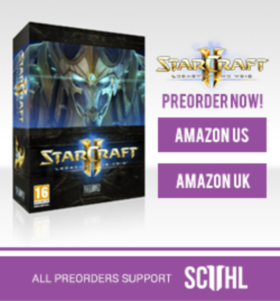
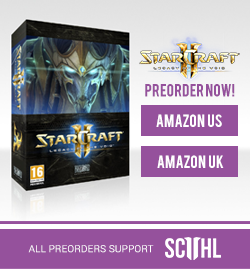
Imagemap for the ad

diff --git a/web/index.html b/web/index.html
@@ -37,7 +37,11 @@
 					<a ng-href="/submitreplay" class="list-group-item nav-button">Submit replay</a>
                     <a ng-click="openSuggestForm()" class="list-group-item nav-button">Suggest Highlight</a>
 				</ul>
-				<a href="#"><img class="img-responsive center-block" src="/images/lotv-preorder-ad.png" alt="Support SC2HL, preorder LOTV!"></a>
+				<img usemap="#image-map" class="img-responsive center-block" src="/images/lotv-preorder-ad.png" alt="Support SC2HL, preorder LOTV!">
+				<map name="image-map" id="image-map">
+					<area shape="rect" coords="140,104,237,135" alt="Amazon US" href="#us">
+       				<area shape="rect" coords="140,145,237,176" alt="Amazon UK" href="#uk">
+				</map>
 			</div>
 			<div id="side-bar-remainder">
 			</div>
